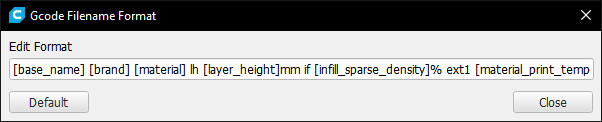
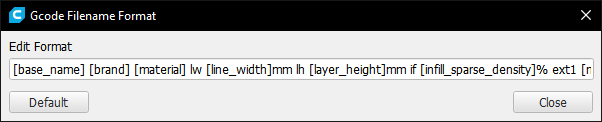
Added line width to default format

Changed region(s): [[0.299, 0.5164, 0.9867, 0.6393]]

diff --git a/Format.qml b/Format.qml
@@ -37,7 +37,7 @@ UM.Dialog
     {
         text: "Default"
         iconName: "dialog-default"
-        onClicked: textfield.text = "[base_name] [brand] [material] lh [layer_height]mm if [infill_sparse_density]% ext1 [material_print_temperature]C bed [material_bed_temperature]C"
+        onClicked: textfield.text = "[base_name] [brand] [material] lw [line_width]mm lh [layer_height]mm if [infill_sparse_density]% ext1 [material_print_temperature]C bed [material_bed_temperature]C"
     }
 
     rightButtons: Button

diff --git a/GcodeFilenameFormat.py b/GcodeFilenameFormat.py
@@ -28,7 +28,7 @@ from cura.Settings.ExtruderManager import ExtruderManager
 
 catalog = i18nCatalog("uranium")
 
-DEFAULT_FILENAME_FORMAT = "[base_name] [brand] [material] lh [layer_height]mm if [infill_sparse_density]% ext1 [material_print_temperature]C bed [material_bed_temperature]C"
+DEFAULT_FILENAME_FORMAT = "[base_name] [brand] [material] lw [line_width]mm lh [layer_height]mm if [infill_sparse_density]% ext1 [material_print_temperature]C bed [material_bed_temperature]C"
 
 class GcodeFilenameFormatDevicePlugin(OutputDevicePlugin):
     def start(self):

diff --git a/README.md b/README.md
@@ -4,11 +4,11 @@ Cura plugin for specifying filename format with print settings
 
 Example:
 
-    PI3MK3M_paperclip Generic PLA lh 0.2mm if 20% ext1 200C bed 60C.gcode
+    PI3MK3M_paperclip Generic PLA lw 0.4mm lh 0.2mm if 20% ext1 200C bed 60C.gcode
 
 Default filename format:
 
-    [base_name] [brand] [material] lh [layer_height]mm if [infill_sparse_density]% ext1 [material_print_temperature]C bed [material_bed_temperature]C
+    [base_name] [brand] [material] lw [line_width]mm lh [layer_height]mm if [infill_sparse_density]% ext1 [material_print_temperature]C bed [material_bed_temperature]C
 
 ## Requirements
 Cura 4.4 or later
@@ -42,11 +42,6 @@ Besides .gcode, the plugin will also work other file types such as .3mf and .stl
 ## Format options
 
 - base_name - the initial output filename from the object name and Cura's "Add machine prefix to job name" setting
-- brand - the brand of the filament e.g. Generic, Prusa, MatterHackers, eSun, etc.
-- material - material type e.g. PLA, PETG, ABS, etc.
-
-The following are standard options from Cura. Examples include:
-
 - layer_height - layer height/thickness, vertical resolution (mm)
 - machine_nozzle_size - nozzle diameter e.g. 0.2 mm, 0.4 mm, 0.6 mm
 - line_width - line/nozzle width e.g. 0.2 mm, 0.4 mm, 0.6 mm
@@ -54,6 +49,8 @@ The following are standard options from Cura. Examples include:
 - infill_sparse_density - infill percentage (%)
 - infill_pattern - infill pattern e.g grid, lines, triangles
 - top_bottom_pattern - pattern of the top and bottom layers e.g. lines, concentric, zig zag
+- brand - the brand of the filament e.g. Generic, Prusa, MatterHackers, eSun, etc.
+- material - material type e.g. PLA, PETG, ABS, etc.
 - material_diameter - filament size e.g. 1.75 mm, 3 mm
 - material_print_temperature - material/nozzle temperature (°C)
 - material_bed_temperature - build plate temperature (°C)
